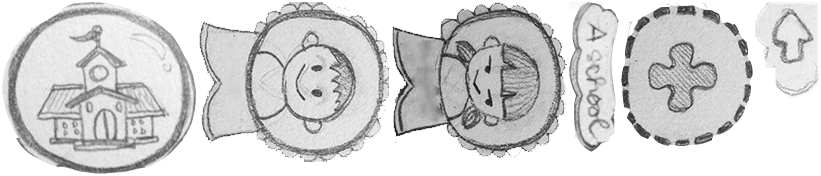
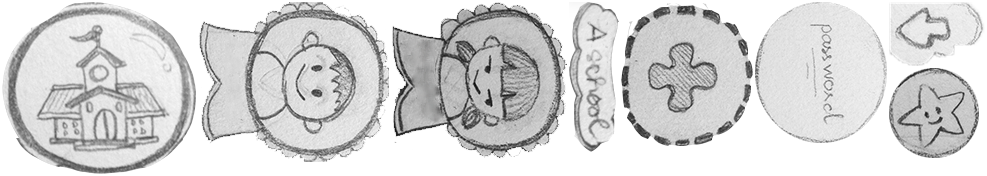
pick password image in login screen

diff --git a/src/LoginLayer.js b/src/LoginLayer.js
@@ -1,6 +1,12 @@
 var LoginLayer = cc.Layer.extend({
     _passwordList: [],
+    _scrollView: null,
     accountClicked: null,
+    _passwordField: null,
+    _passwordList: [0, 1, 2, 3, 4, 5, 6],
+    _passwordArea: null,
+    _passwordClickedBefore: null,
+    _originPos: null,
 
     ctor: function (account) {
         this._super();
@@ -10,6 +16,7 @@ var LoginLayer = cc.Layer.extend({
         this.createAccountImage();
         this.createPasswordField();
         this.createPasswordList();
+        this.createScrollView();
         this.addBackButton();
     },
 
@@ -21,8 +28,8 @@ var LoginLayer = cc.Layer.extend({
         else
             acc = new ccui.Button("male-avt.png", "", "", ccui.Widget.PLIST_TEXTURE);
 
-        acc.x = cc.winSize.width / 2;
-        acc.y = cc.winSize.height / 2;
+        acc.x = cc.winSize.width / 3;
+        acc.y = cc.winSize.height / 2 + acc.height /2;
 
         this.createAccountNameLabel(this.accountClicked, acc);
         this.addChild(acc);
@@ -37,11 +44,61 @@ var LoginLayer = cc.Layer.extend({
     },
 
     createPasswordField: function() {
+        var f = new cc.Sprite("#password-field.png");
+        f.x = cc.winSize.width / 2;
+        f.y = cc.winSize.height / 2;
+
+        this._passwordField = f;
+        this.addChild(this._passwordField);
 
     },
 
     createPasswordList: function() {
+        this.createPasswordArea();
+        for ( var i = 0; i < this._passwordList.length; i++) {
+            var pwImage = this.createNewPassWordImage(i);
+            this._passwordArea.width = pwImage.x;
+            this._passwordArea.height = pwImage.y + pwImage.height;
+            this._passwordArea.x = 0;
+            this._passwordArea.y = this._passwordArea.height / 2;
+            this._passwordArea.addChild(pwImage);
+        }
+    },
 
+    createNewPassWordImage: function(i){
+        var self = this;
+        var pwImage = new ccui.Button();
+
+        pwImage.loadTextureNormal("password-img.png", ccui.Widget.PLIST_TEXTURE);
+        pwImage.x = pwImage.width + (pwImage.width*2)* i;
+        pwImage.y = pwImage.height;
+        pwImage.tag = i;
+        pwImage.setSwallowTouches(false);
+        pwImage.addClickEventListener(function() {self.onPasswordClicked(this)});
+
+        return pwImage;
+    },
+
+    onPasswordClicked: function(password) {
+        if (this._passwordClickedBefore) {
+            var pw = this.createNewPassWordImage(this._passwordClickedBefore.tag);
+            this._passwordArea.addChild(pw);
+        }
+
+        this._passwordClickedBefore = password;
+        password.removeFromParent();
+        this._passwordClickedBefore.setPosition(this._passwordField.width / 2, this._passwordField.height /2);
+        this._passwordField.addChild(this._passwordClickedBefore);
+    },
+
+    setPassWordImageVisible: function(pwImg, visible){
+        pwImg.setVisible(visible);
+    },
+
+    createPasswordArea: function() {
+        var area = new cc.Sprite();
+        area.setAnchorPoint(0, 0.5);
+        this._passwordArea = area;
     },
 
     addBackButton: function() {
@@ -55,5 +112,29 @@ var LoginLayer = cc.Layer.extend({
             self.parent.addNewLayer(self, "accLayer");
         });
 
+    },
+
+    createScrollView: function(){
+        var self = this;
+        this._scrollView = new ccui.ScrollView();
+        this._scrollView.setDirection(ccui.ScrollView.DIR_HORIZONTAL);
+        this._scrollView.setTouchEnabled(true);
+        this._scrollView.setContentSize(cc.size(cc.winSize.width, cc.winSize.height));
+
+        var scrollViewRect = this._scrollView.getContentSize();
+
+        this._scrollView.x = 0;
+        this._scrollView.y = 0;
+        self.addChild(this._scrollView);
+
+        var innerWidth = this._passwordArea.width + 100;
+        var innerHeight = cc.winSize.height/2 - this._passwordField.height;
+        this._scrollView.setInnerContainerSize(cc.size(innerWidth, innerHeight));
+
+        this._scrollView.addChild(this._passwordArea);
+
+        cc.log("innerWidth: " + innerWidth);
+        cc.log("innerHeight: " + innerHeight);
+        cc.log("contentsize: " + JSON.stringify(this._scrollView.getContentSize()));
     },
 });

diff --git a/src/Constants.js b/src/Constants.js
@@ -1,7 +1,7 @@
 ACCOUNT_INFO = [
-    {name: "Stefan", sex: 1, avtImg: "", avtType: ""},
-    {name: "Marvin", sex: 1, avtImg: "", avtType: ""},
-    {name: "Hana", sex: 0, avtImg: "", avtType: ""},
-    {name: "Nick", sex: 0, avtImg: "", avtType: ""},
-    {name: "Tony", sex: 1, avtImg: "", avtType: ""}
+    {name: "Stefan", sex: 1, avtImg: "", avtType: "", passwordImg: 1},
+    {name: "Marvin", sex: 1, avtImg: "", avtType: "", passwordImg: 1},
+    {name: "Hana", sex: 0, avtImg: "", avtType: "", passwordImg: 1},
+    {name: "Nick", sex: 0, avtImg: "", avtType: "", passwordImg: 1},
+    {name: "Tony", sex: 1, avtImg: "", avtType: "", passwordImg: 1}
 ];
